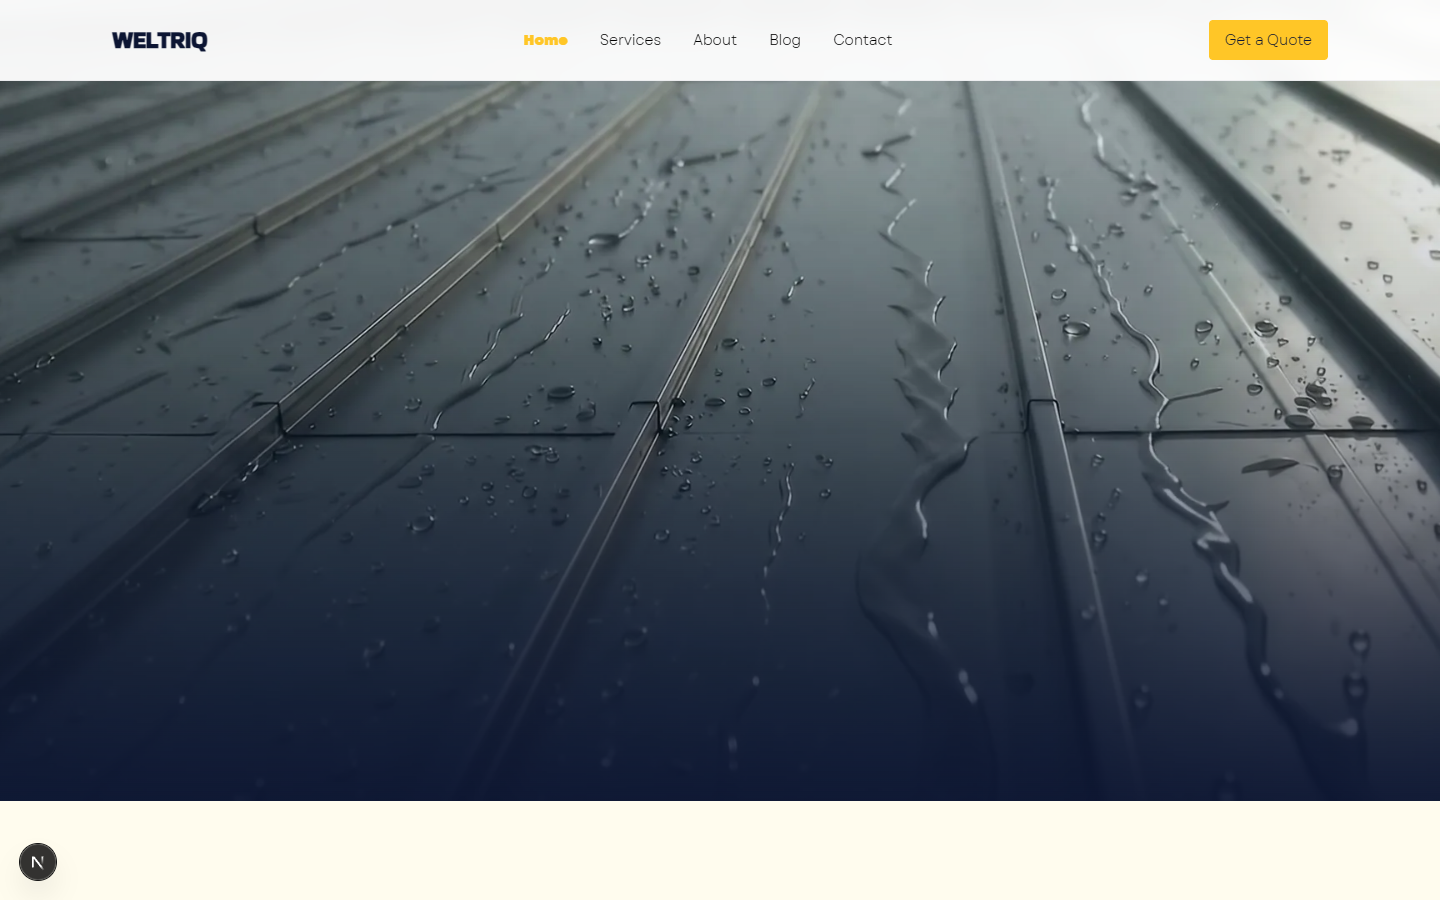
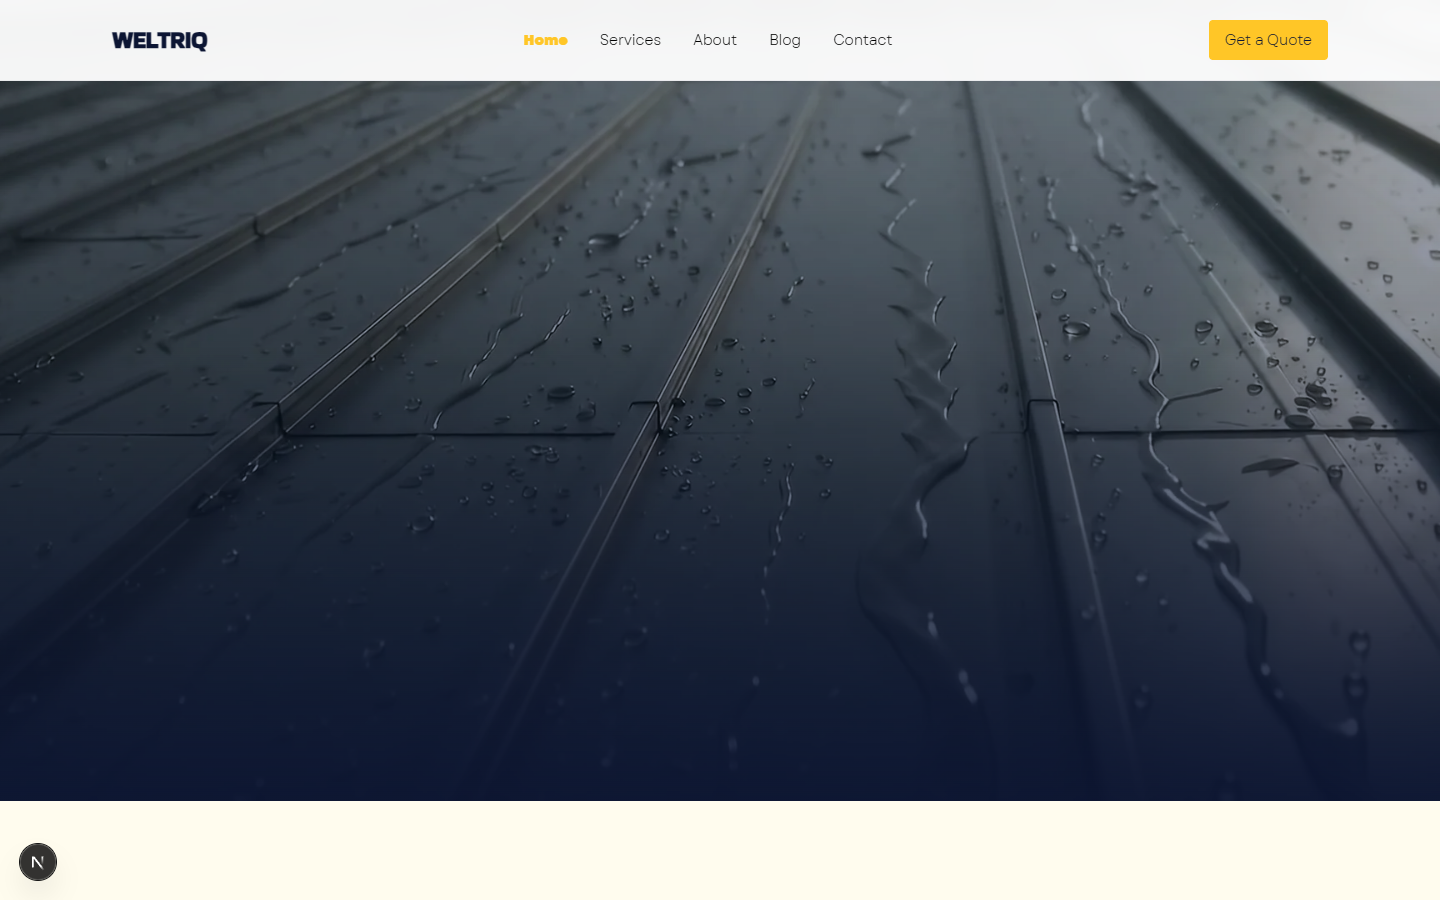
fixed animation issue

diff --git a/components/sections/HomeHeroScroll.tsx b/components/sections/HomeHeroScroll.tsx
@@ -51,41 +51,11 @@ function drawCoverImage(
   );
 }
 
-/**
- * Maps scroll progress (0.0 - 1.0) to frame index (0 - 119)
- * - 0.00 -> 0.18: Serene house at twilight (Frames 0 -> 27)
- * - 0.18 -> 0.32: Monsoon storm gathering & dramatic lightning bolt (Frames 28 -> 30 with expanded presence)
- * - 0.32 -> 0.88: Heavy rain on standing seam roof panels & macro water beading (Frames 31 -> 119)
- * - 0.88 -> 1.00: Holding cushion on the final macro frame before unpinning
- */
-function getFrameFromProgress(progress: number): number {
-  const clamped = Math.min(1, Math.max(0, progress / 0.88));
-
-  if (clamped <= 0.18) {
-    const t = clamped / 0.18;
-    return Math.min(27, Math.max(0, Math.round(t * 27)));
-  }
-
-  if (clamped <= 0.32) {
-    const t = (clamped - 0.18) / 0.14; // 0.0 -> 1.0 across the 14% lightning window
-    if (t < 0.25) return 28; // Gathering storm clouds
-    if (t < 0.75) return 29; // Full brilliant lightning bolt strike held clearly
-    return 30; // Lightning afterglow & strike arc
-  }
-
-  // 0.32 -> 1.0 maps to remaining frames 31 -> 119
-  const t = (clamped - 0.32) / 0.68;
-  return Math.min(TOTAL_FRAMES - 1, Math.max(31, Math.round(31 + t * (TOTAL_FRAMES - 1 - 31))));
-}
-
 export function HomeHeroScroll() {
   const trackRef = useRef<HTMLDivElement>(null);
   const canvasRef = useRef<HTMLCanvasElement>(null);
   const contentRef = useRef<HTMLDivElement>(null);
   const scrollIndicatorRef = useRef<HTMLDivElement>(null);
-  const lightningFlashRef = useRef<HTMLDivElement>(null);
-  const multiplyOverlayRef = useRef<HTMLDivElement>(null);
-  const lastFlashTimeRef = useRef(0);
 
   const imagesRef = useRef<(HTMLImageElement | null)[]>([]);
   const currentFrameRef = useRef(0);
@@ -196,34 +166,15 @@ export function HomeHeroScroll() {
       scrub: 0.5,
       invalidateOnRefresh: true,
       onUpdate: (self) => {
-        // 1. Calculate frame index with expanded lightning presence and cushion hold
-        const frameIndex = getFrameFromProgress(self.progress);
+        // 0.0 -> 0.88 maps smoothly across frames 0 -> TOTAL_FRAMES - 1; 0.88 -> 1.0 provides a cushion hold on the final frame
+        const animProgress = Math.min(1, Math.max(0, self.progress / 0.88));
+        const frameIndex = Math.min(
+          TOTAL_FRAMES - 1,
+          Math.max(0, Math.round(animProgress * (TOTAL_FRAMES - 1)))
+        );
         renderFrame(frameIndex);
 
-        // 2. Dynamic atmospheric lightning flash burst (cooldown protected)
-        if (self.progress >= 0.18 && self.progress <= 0.32) {
-          const now = Date.now();
-          if (now - lastFlashTimeRef.current > 2500) {
-            lastFlashTimeRef.current = now;
-            if (lightningFlashRef.current) {
-              gsap.killTweensOf(lightningFlashRef.current);
-              gsap
-                .timeline()
-                .to(lightningFlashRef.current, { opacity: 0.65, duration: 0.05, ease: "power2.out" })
-                .to(lightningFlashRef.current, { opacity: 0.08, duration: 0.04 })
-                .to(lightningFlashRef.current, { opacity: 0.45, duration: 0.06 })
-                .to(lightningFlashRef.current, { opacity: 0, duration: 0.28, ease: "power2.in" });
-            }
-          }
-        }
-
-        // 3. Fade out dark navy multiply overlay so lightning and storm display with 100% raw brightness
-        if (multiplyOverlayRef.current) {
-          const overlayFade = Math.min(1, Math.max(0, (self.progress - 0.04) / 0.14));
-          multiplyOverlayRef.current.style.opacity = String(1 - overlayFade);
-        }
-
-        // 4. Fade out text overlay cleanly before the storm
+        // Fade out text overlay cleanly before the storm
         if (contentRef.current) {
           const fadeProgress = Math.min(1, Math.max(0, (self.progress - 0.04) / 0.14));
           const opacity = 1 - fadeProgress;
@@ -233,7 +184,7 @@ export function HomeHeroScroll() {
           contentRef.current.style.pointerEvents = opacity < 0.1 ? "none" : "auto";
         }
 
-        // 5. Hide scroll indicator on first scroll
+        // Hide scroll indicator on first scroll
         if (scrollIndicatorRef.current) {
           const indOpacity = Math.max(0, 1 - self.progress * 8);
           scrollIndicatorRef.current.style.opacity = String(indOpacity);
@@ -256,18 +207,8 @@ export function HomeHeroScroll() {
           className="absolute inset-0 w-full h-full block pointer-events-none z-0"
         />
 
-        {/* Dynamic Atmospheric Lightning Flash Burst */}
-        <div
-          ref={lightningFlashRef}
-          className="absolute inset-0 bg-white/45 pointer-events-none z-1 opacity-0 mix-blend-screen will-change-transform"
-          aria-hidden="true"
-        />
-
         {/* Cinematic Navy Gradient Overlays */}
-        <div
-          ref={multiplyOverlayRef}
-          className="absolute inset-0 bg-brand-navy/35 mix-blend-multiply pointer-events-none z-1"
-        />
+        <div className="absolute inset-0 bg-brand-navy/35 mix-blend-multiply pointer-events-none z-1" />
         <div className="absolute inset-0 bg-gradient-to-t from-brand-navy/90 via-brand-navy/20 to-transparent pointer-events-none z-1" />
 
         {/* Static Fallback Image while loading */}

diff --git a/components/layout/Navbar.tsx b/components/layout/Navbar.tsx
@@ -85,10 +85,17 @@ export function Navbar() {
   }, [isOpen]);
 
   return (
-    <header className="sticky top-0 z-50 w-full border-b border-brand-navy/5 bg-brand-white/95 backdrop-blur-md">
+    <header className="sticky top-0 z-50 w-full">
+      {/* Background layer with blur and border separated to prevent fixed containment trap */}
+      <div className="absolute inset-0 -z-10 border-b border-brand-navy/5 bg-brand-white/95 backdrop-blur-md pointer-events-none" />
+
       <Container>
         <div className="flex h-20 items-center justify-between">
-          <Link href="/" className="flex items-center space-x-2 z-50 relative">
+          <Link 
+            href="/" 
+            className="flex items-center space-x-2 z-50 relative"
+            onClick={() => setIsOpen(false)}
+          >
             <span className="font-display text-2xl font-bold uppercase tracking-tight text-brand-navy">
               Weltriq
             </span>
@@ -152,6 +159,7 @@ export function Navbar() {
                   key={link.name} 
                   href={link.href}
                   aria-current={isActive ? "page" : undefined}
+                  onClick={() => setIsOpen(false)}
                   className={`text-2xl font-display uppercase tracking-wide transition-colors ${
                     isActive ? "text-brand-yellow font-bold" : "text-brand-navy hover:text-brand-yellow"
                   }`}
@@ -161,8 +169,8 @@ export function Navbar() {
               );
             })}
           </nav>
-          <div className="mt-8 border-t border-brand-navy/10 pt-8">
-            <Button variant="primary" size="lg" className="w-full" asChild>
+          <div className="mt-8 border-t border-brand-navy/10 pt-8 pb-12">
+            <Button variant="primary" size="lg" className="w-full" asChild onClick={() => setIsOpen(false)}>
               <Link href="/contact">Get a Quote</Link>
             </Button>
           </div>
